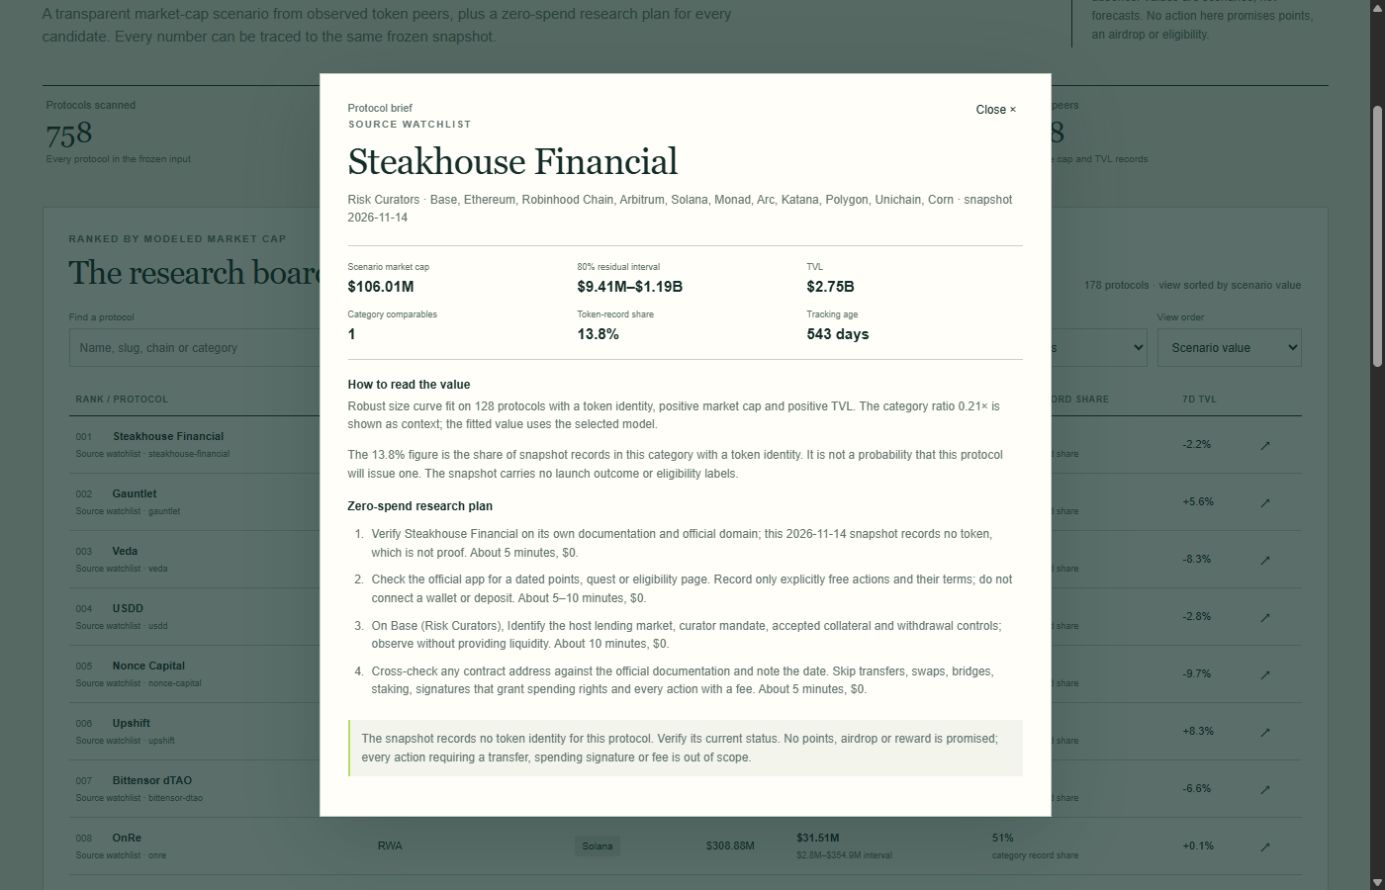
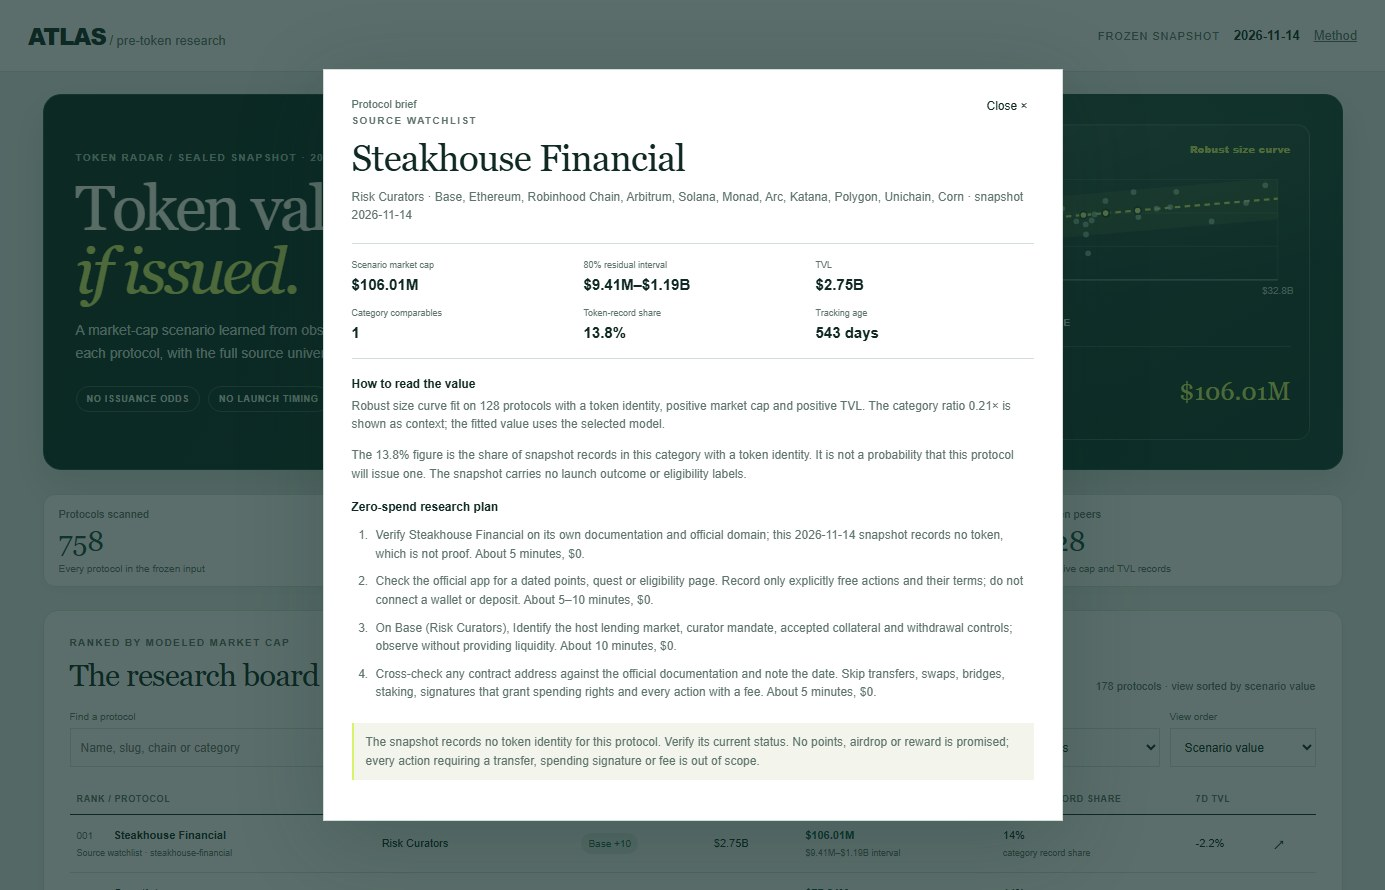
Visualize peer fit and scenario uncertainty

diff --git a/dashboard/app.css b/dashboard/app.css
@@ -1,4 +1,4 @@
-:root{--ink:#142d29;--paper:#f1f0e7;--surface:#fffef9;--muted:#62756e;--line:#c9d2c8;--accent:#b8df62;--dark:#0e2b26;--white:#fbfff7;--wash:#e6eadf;--warning:#744a28;--font:Arial,sans-serif;--serif:Georgia,serif}
+:root{--ink:#102923;--paper:#eaf0ec;--surface:#ffffff;--muted:#5f746c;--line:#d2dfd8;--accent:#d7f36a;--dark:#0b2923;--white:#f7f8ee;--wash:#e4eee7;--warning:#744a28;--font:Arial,sans-serif;--serif:Georgia,serif}
 *{box-sizing:border-box}
 html,body{margin:0;overflow-x:clip}
 body{background:var(--paper);color:var(--ink);font-family:var(--font)}
@@ -92,5 +92,53 @@ button:focus-visible,a:focus-visible,input:focus-visible,select:focus-visible,su
 button:active{transform:translateY(1px)}
 button:disabled{opacity:.5;cursor:default}
 h1,h2{text-wrap:balance}
+.intro.hero{grid-template-columns:minmax(0,.98fr) minmax(460px,1.02fr);gap:34px;align-items:center;margin:22px 0 24px;padding:29px 32px;border:1px solid #24483e;border-radius:18px;background:radial-gradient(ellipse at 77% 8%,rgba(112,173,132,.2),transparent 35%),linear-gradient(125deg,#0b2923 0%,#103b32 100%);color:var(--white);box-shadow:0 16px 38px rgba(13,49,39,.14);overflow:hidden}
+.hero .eyebrow{color:#a8c7b9;margin-bottom:14px}
+.hero h1{font-size:clamp(48px,4.6vw,68px);letter-spacing:-2.7px;margin:0 0 16px;color:var(--white)}
+.hero h1 em{color:var(--accent);font-style:italic}
+.hero .lede{max-width:560px;color:#d0e0d8;font-size:14px;line-height:1.6}
+.hero-proof{display:flex;flex-wrap:wrap;gap:8px;margin-top:22px}
+.hero-proof span{border:1px solid rgba(211,238,221,.23);border-radius:999px;padding:7px 10px;color:#d6e8de;font-size:9px;font-weight:700;letter-spacing:.08em}
+.signal-card{min-width:0;padding:17px 18px 13px;border:1px solid rgba(205,237,217,.2);border-radius:13px;background:linear-gradient(150deg,rgba(246,255,247,.1),rgba(1,20,17,.2));box-shadow:inset 0 1px rgba(255,255,255,.08)}
+.signal-head{display:flex;justify-content:space-between;align-items:center;gap:12px;color:#b9d0c5;font-size:9px;font-weight:700;letter-spacing:.1em}
+.signal-head strong{color:var(--accent);font-size:10px;letter-spacing:.02em;text-align:right}
+.hero-chart{margin:8px 0 4px}
+.hero-chart svg{display:block;width:100%;height:auto;overflow:visible}
+.hero-chart .chart-grid{stroke:rgba(215,239,225,.13);stroke-width:1}
+.hero-chart .chart-axis{stroke:rgba(215,239,225,.4);stroke-width:1}
+.hero-chart .chart-label{fill:#a9c5b8;font:9px Arial,sans-serif}
+.hero-chart .chart-axis-title{fill:#d0e2d8;font:9px Arial,sans-serif;font-weight:700;letter-spacing:.06em}
+.hero-chart .chart-band{fill:rgba(215,243,106,.11)}
+.hero-chart .chart-fit{fill:none;stroke:#d7f36a;stroke-width:2;stroke-dasharray:5 4}
+.hero-chart .peer-dot{fill:#a5dfc3;opacity:.68}
+.hero-chart .candidate-dot{fill:#e7fa87;stroke:#143a30;stroke-width:1.3}
+.chart-legend{display:flex;gap:17px;align-items:center;color:#d2e3d9;font-size:9px}
+.chart-legend span{display:inline-flex;align-items:center;gap:6px}
+.legend-peer,.legend-candidate{display:inline-block;width:7px;height:7px;border-radius:50%;background:#a5dfc3}
+.legend-candidate{background:#e7fa87}
+.legend-fit{display:inline-block;width:14px;border-top:2px dashed #d7f36a}
+.signal-result{display:flex;align-items:end;justify-content:space-between;gap:16px;padding-top:12px;border-top:1px solid rgba(215,239,225,.18)}
+.signal-result span,.signal-result small{display:block;color:#afc9bd;font-size:9px}
+.signal-result strong{display:block;margin-top:4px;color:var(--white);font:600 15px var(--font)}
+.signal-result small{margin-top:4px}
+.signal-result b{color:var(--accent);font:400 25px/1 var(--serif);white-space:nowrap}
+.signal-disclaimer{margin:10px 0 0;color:#9ebaae;font-size:9px;line-height:1.4}
+.metrics-strip{gap:10px;margin-bottom:23px}
+.metric-card{border:1px solid var(--line);border-radius:12px;background:var(--surface);padding:13px 15px 12px;box-shadow:0 4px 12px rgba(21,58,45,.035)}
+.metric-card strong{color:#174c3e;font-size:28px}
+.workspace{border-radius:15px;box-shadow:0 5px 18px rgba(21,58,45,.035)}
+.section-head{margin-bottom:19px}
+.section-head h2{font-size:31px}
+th{padding-top:10px;padding-bottom:10px}
+tbody tr{transition:background .16s ease}
+tbody tr:hover{background:#f1f7f2}
+.value{color:#12513f}
+.tag{background:#e6f0e9;color:#285d49;border-radius:999px}
+.more{border-radius:7px;background:var(--dark);font-weight:700;letter-spacing:.02em}
+.more:hover{background:#245149}
 @media(max-width:900px){main{padding:0 20px}.toolbar{flex-wrap:wrap}.toolbar .search{flex-basis:100%}.toolbar label:not(.search){flex:1}.intro{grid-template-columns:1fr 220px;gap:24px}.method{gap:32px}}
 @media(max-width:700px){header{padding:0 16px}.header-right{gap:7px;font-size:8px}.header-right a{display:none}main{padding:0 14px}.intro{grid-template-columns:1fr;padding:38px 0 28px}.intro-note{display:none}h1{font-size:48px}.metrics-strip{grid-template-columns:repeat(2,1fr);gap:5px}.workspace{padding:15px}.section-head{align-items:start;flex-direction:column}.toolbar label:not(.search){flex:1 1 42%}select{width:100%;max-width:none;min-width:0}.audit-summary{grid-template-columns:repeat(2,1fr)}.audit-summary .audit-chip:last-child{grid-column:span 2}.method{grid-template-columns:1fr;gap:20px;padding:38px 0}.method h2{font-size:35px}.detail-metrics{grid-template-columns:repeat(2,1fr)}.detail-title{font-size:31px}footer{flex-direction:column;gap:6px}.reason{min-width:190px}}
+@media(max-width:980px) and (min-width:641px){.intro.hero{grid-template-columns:minmax(0,.82fr) minmax(0,1.18fr);gap:16px;padding:20px}.hero h1{font-size:43px}.hero .lede{max-width:700px;font-size:12px}.hero-proof{gap:6px;margin-top:16px}.hero-proof span{font-size:8px;padding:6px 8px}.signal-card{max-width:none;padding:12px}.signal-head{font-size:8px}.signal-result b{font-size:21px}}
+@media(max-width:640px){.intro.hero{grid-template-columns:1fr;gap:18px;padding:21px 17px;margin:15px 0 18px;border-radius:14px}.hero .lede{font-size:13px}.hero-proof{gap:6px;margin-top:17px}.hero-proof span{font-size:8px;padding:6px 8px}.signal-card{padding:14px 12px 11px}.signal-head{font-size:8px}.signal-result b{font-size:22px}}
+@media(max-width:700px){.intro.hero{padding:21px 17px;margin:15px 0 18px;border-radius:14px}.hero h1{font-size:48px;letter-spacing:-2px}.hero .eyebrow{font-size:9px}.hero-proof{gap:6px;margin-top:17px}.hero-proof span{font-size:8px;padding:6px 8px}.signal-card{padding:14px 12px 11px}.signal-head{font-size:8px}.signal-result b{font-size:22px}.metrics-strip{gap:7px}.metric-card{padding:11px 10px}.metric-card strong{font-size:25px}}
+@media(min-width:641px) and (max-width:700px){.hero h1{font-size:38px;letter-spacing:-1.5px}.hero .lede{font-size:11px;line-height:1.4}.hero-proof{margin-top:12px}.hero-proof span{font-size:7px;padding:5px 7px}.signal-card{padding:10px}.signal-disclaimer{margin-top:6px}}

diff --git a/dashboard/app.js b/dashboard/app.js
@@ -34,6 +34,43 @@ $('model-summary').textContent=modelName+' selected from '+stats.dated_comparabl
 const parameters=stats.model_parameters||{};
 const slope=parameters.slope;
 $('formula').textContent=slope==null?'Robust scenario fit · '+modelName:'ln(market cap) = intercept + '+Number(slope).toFixed(3)+' × ln(TVL)';
+$('hero-model').textContent=modelName;
+const leadScenario=data.rows[0];
+if(leadScenario){
+ $('signal-name').textContent=leadScenario.name;
+ $('signal-value').textContent=money(leadScenario.implied_value_usd);
+ $('signal-range').textContent=money(leadScenario.implied_low_usd)+'–'+money(leadScenario.implied_high_usd)+' · 80% residual interval';
+}
+function renderHeroChart(){
+ const peers=data.live.filter(row=>row.tvl_usd>0&&row.mcap_usd>0);
+ const scenarios=data.rows.slice(0,40).filter(row=>row.tvl_usd>0&&row.implied_value_usd>0);
+ const points=[...peers.map(row=>[Math.log(row.tvl_usd),Math.log(row.mcap_usd)]),...scenarios.map(row=>[Math.log(row.tvl_usd),Math.log(row.implied_value_usd)])];
+ if(!points.length)return;
+ const width=520,height=152,left=47,right=508,top=14,bottom=105;
+ const xMin=Math.min(...points.map(point=>point[0]))-.22,xMax=Math.max(...points.map(point=>point[0]))+.22;
+ const yMin=Math.min(...points.map(point=>point[1]))-.38,yMax=Math.max(...points.map(point=>point[1]))+.38;
+ const x=value=>left+(value-xMin)/(xMax-xMin)*(right-left);
+ const y=value=>bottom-(value-yMin)/(yMax-yMin)*(bottom-top);
+ const clamp=value=>Math.max(top,Math.min(bottom,value));
+ const xTicks=[0,.5,1].map(fraction=>xMin+(xMax-xMin)*fraction);
+ const yTicks=[0,1,2,3].map(index=>yMin+(yMax-yMin)*index/3);
+ const gridX=xTicks.map(value=>'<line class="chart-grid" x1="'+x(value)+'" y1="'+top+'" x2="'+x(value)+'" y2="'+bottom+'"/><text class="chart-label" x="'+x(value)+'" y="'+(bottom+13)+'" text-anchor="middle">'+escapeHtml(money(Math.exp(value)))+'</text>').join('');
+ const gridY=yTicks.map(value=>'<line class="chart-grid" x1="'+left+'" y1="'+y(value)+'" x2="'+right+'" y2="'+y(value)+'"/><text class="chart-label" x="'+(left-8)+'" y="'+(y(value)+3)+'" text-anchor="end">'+escapeHtml(money(Math.exp(value)))+'</text>').join('');
+ const fitSlope=Number(parameters.slope),fitIntercept=Number(parameters.intercept);
+ let fit='',band='';
+ if(Number.isFinite(fitSlope)&&Number.isFinite(fitIntercept)){
+  const xs=Array.from({length:28},(_,index)=>xMin+(xMax-xMin)*index/27);
+  fit='<path class="chart-fit" d="'+xs.map((value,index)=>(index?'L':'M')+x(value).toFixed(1)+' '+y(fitIntercept+fitSlope*value).toFixed(1)).join(' ')+'"/>';
+  const offset=Math.log(Math.max(1,Number(stats.interval_factor)||1));
+  const upper=xs.map(value=>x(value).toFixed(1)+','+clamp(y(fitIntercept+fitSlope*value+offset)).toFixed(1));
+  const lower=[...xs].reverse().map(value=>x(value).toFixed(1)+','+clamp(y(fitIntercept+fitSlope*value-offset)).toFixed(1));
+  band='<polygon class="chart-band" points="'+[...upper,...lower].join(' ')+'"/>';
+ }
+ const peerDots=peers.map(row=>'<circle class="peer-dot" cx="'+x(Math.log(row.tvl_usd)).toFixed(1)+'" cy="'+y(Math.log(row.mcap_usd)).toFixed(1)+'" r="2.6"/>').join('');
+ const candidateDots=scenarios.map(row=>'<circle class="candidate-dot" cx="'+x(Math.log(row.tvl_usd)).toFixed(1)+'" cy="'+y(Math.log(row.implied_value_usd)).toFixed(1)+'" r="3.2"><title>'+escapeHtml(row.name)+' · conditional '+escapeHtml(money(row.implied_value_usd))+'</title></circle>').join('');
+ $('hero-chart').innerHTML='<svg viewBox="0 0 '+width+' '+height+'" role="img" aria-label="Observed token peers and conditional candidate values plotted on logarithmic TVL and market-cap axes"><g>'+gridX+gridY+'<line class="chart-axis" x1="'+left+'" y1="'+bottom+'" x2="'+right+'" y2="'+bottom+'"/><line class="chart-axis" x1="'+left+'" y1="'+top+'" x2="'+left+'" y2="'+bottom+'"/><g>'+band+fit+peerDots+candidateDots+'</g><text class="chart-axis-title" x="'+((left+right)/2)+'" y="147" text-anchor="middle">TVL · LOG SCALE</text></g></svg><div class="chart-legend"><span><i class="legend-peer"></i>Observed token peer</span><span><i class="legend-candidate"></i>Candidate scenario</span><span><i class="legend-fit"></i>Robust fit</span></div>';
+}
+renderHeroChart();
 $('validation-rows').innerHTML=stats.validation.map(row=>{
  const selected=row.name===stats.selected_model;
  return '<tr class="'+(selected?'selected-model':'')+'"><td>'+escapeHtml(labelMap[row.name]||row.name)+(selected?' <span class="selected-tag">selected</span>':'')+'</td><td>'+Number(row.n).toLocaleString('en-US')+'</td><td>'+escapeHtml(row.median_factor_error)+'×</td><td>'+escapeHtml(row.within_2x_percent)+'%</td></tr>';

diff --git a/dashboard/index.html b/dashboard/index.html
@@ -13,15 +13,18 @@
   <div class="header-right">FROZEN SNAPSHOT <strong id="date">—</strong><a href="#method">Method</a></div>
 </header>
 <main>
-  <section class="intro">
+  <section class="intro hero">
     <div class="intro-copy">
-      <p class="eyebrow">A valuation scenario, without launch odds</p>
-      <h1>What could a token<br>be worth <em>if issued?</em></h1>
-      <p class="lede">A transparent market-cap scenario from observed token peers, plus a zero-spend research plan for every candidate. Every number can be traced to the same frozen snapshot.</p>
+      <p class="eyebrow">Token radar / sealed snapshot · 2026-11-14</p>
+      <h1>Token value,<br><em>if issued.</em></h1>
+      <p class="lede">A market-cap scenario learned from observed token peers. Explore the evidence behind each protocol, with the full source universe and exclusions kept in view.</p>
+      <div class="hero-proof"><span>NO ISSUANCE ODDS</span><span>NO LAUNCH TIMING</span><span>$0 RESEARCH PLANS</span></div>
     </div>
-    <aside class="intro-note">
-      <span>READ THIS FIRST</span>
-      <p>“No token recorded” is not proof of token absence. Values are scenarios, not forecasts. No action here promises points, an airdrop or eligibility.</p>
+    <aside class="signal-card" aria-label="Observed token peers and conditional value scenario">
+      <div class="signal-head"><span>PEER MARKET CAPS / TVL</span><strong id="hero-model">Robust size curve</strong></div>
+      <div id="hero-chart" class="hero-chart" aria-label="Log scale scatter plot of observed token peers and candidate scenarios"></div>
+      <div class="signal-result"><div><span>Largest conditional scenario</span><strong id="signal-name">Loading</strong><small id="signal-range">—</small></div><b id="signal-value">—</b></div>
+      <p class="signal-disclaimer">Scenario assumes issuance; it is not a launch forecast or a probability.</p>
     </aside>
   </section>
   <section class="metrics-strip" id="metrics" aria-label="Snapshot coverage"></section>

diff --git a/README.md b/README.md
@@ -11,6 +11,7 @@ Atlas scans the competition's sealed DefiLlama snapshot and ranks protocols by a
 ## What it shows
 
 - A ranked research board for every source-watchlist protocol and eligible below-floor discoveries.
+- A log-scale chart plots all 128 observed token peers, the top 40 candidate scenarios, the fitted size curve and its held-out residual band.
 - A line-by-line audit of all 758 source records, including recorded tokens, screened categories and high-TVL records omitted by the source watchlist whose parent link is unavailable in this snapshot.
 - A robust log-market-cap versus log-TVL curve fitted to 128 token records with positive market cap and TVL.
 - Expanding-window comparisons against a fixed multiple and variants that add age, weekly change or category residuals. Only the simplest size curve is kept when extra terms fail to improve out-of-fold error.
